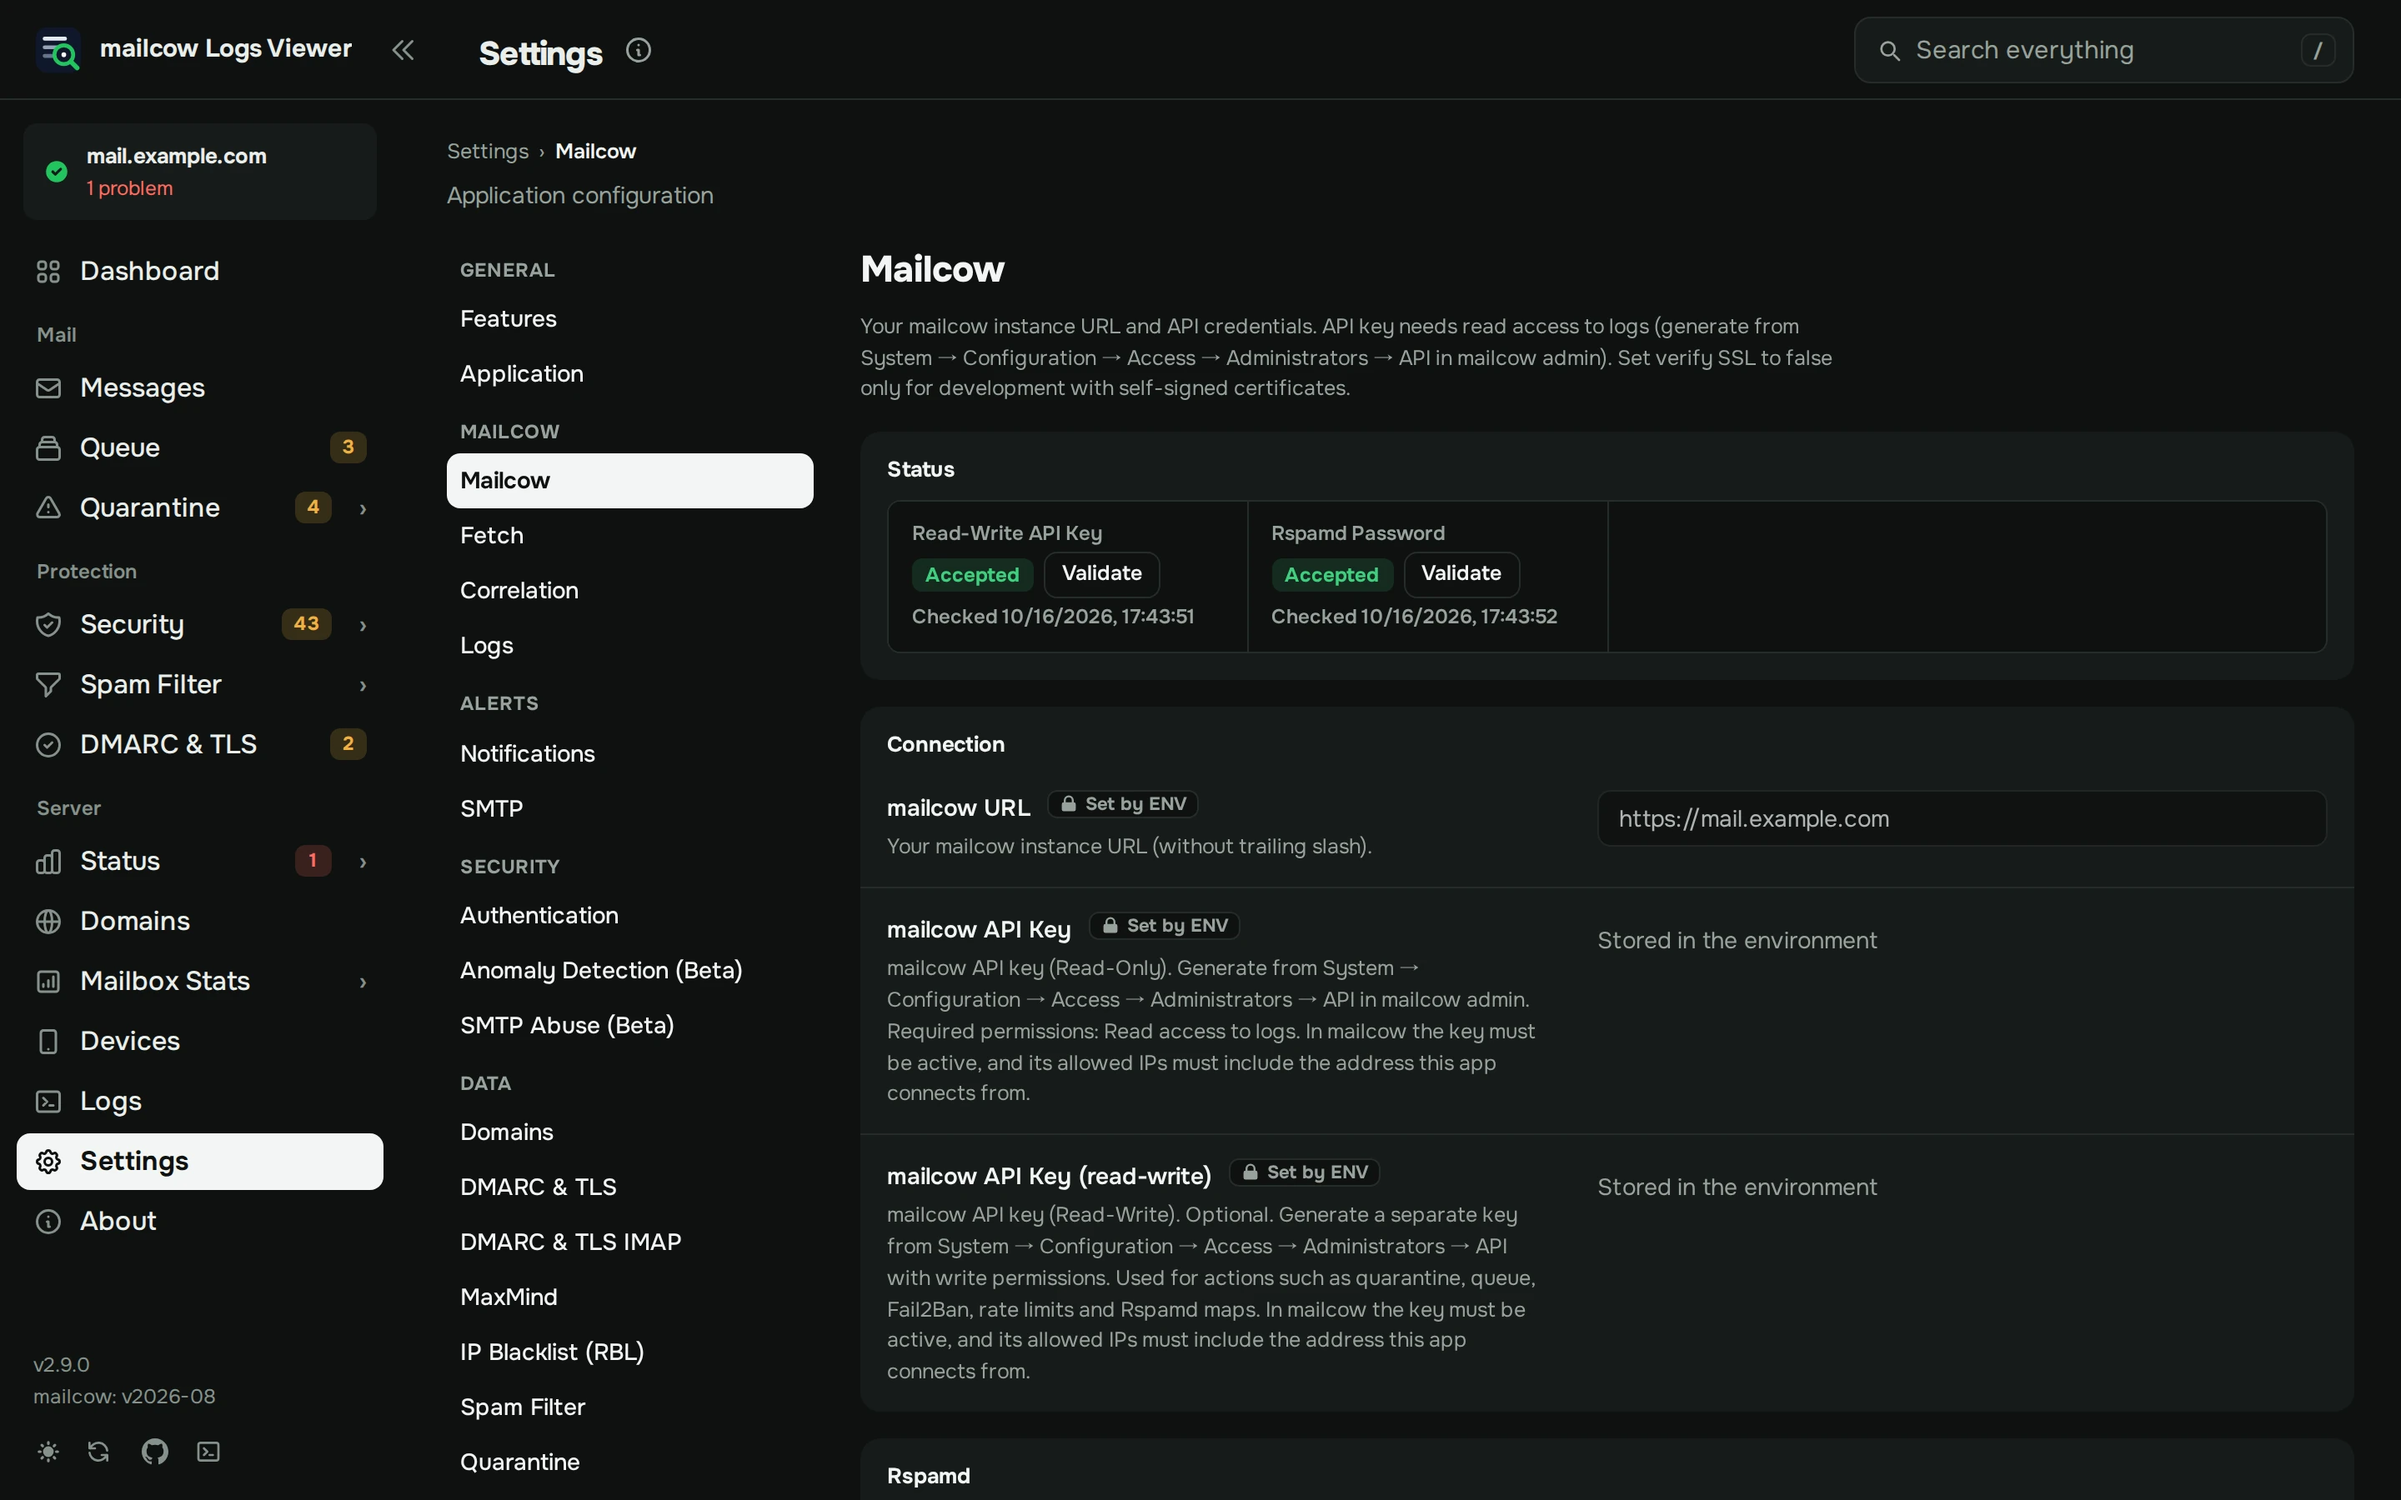
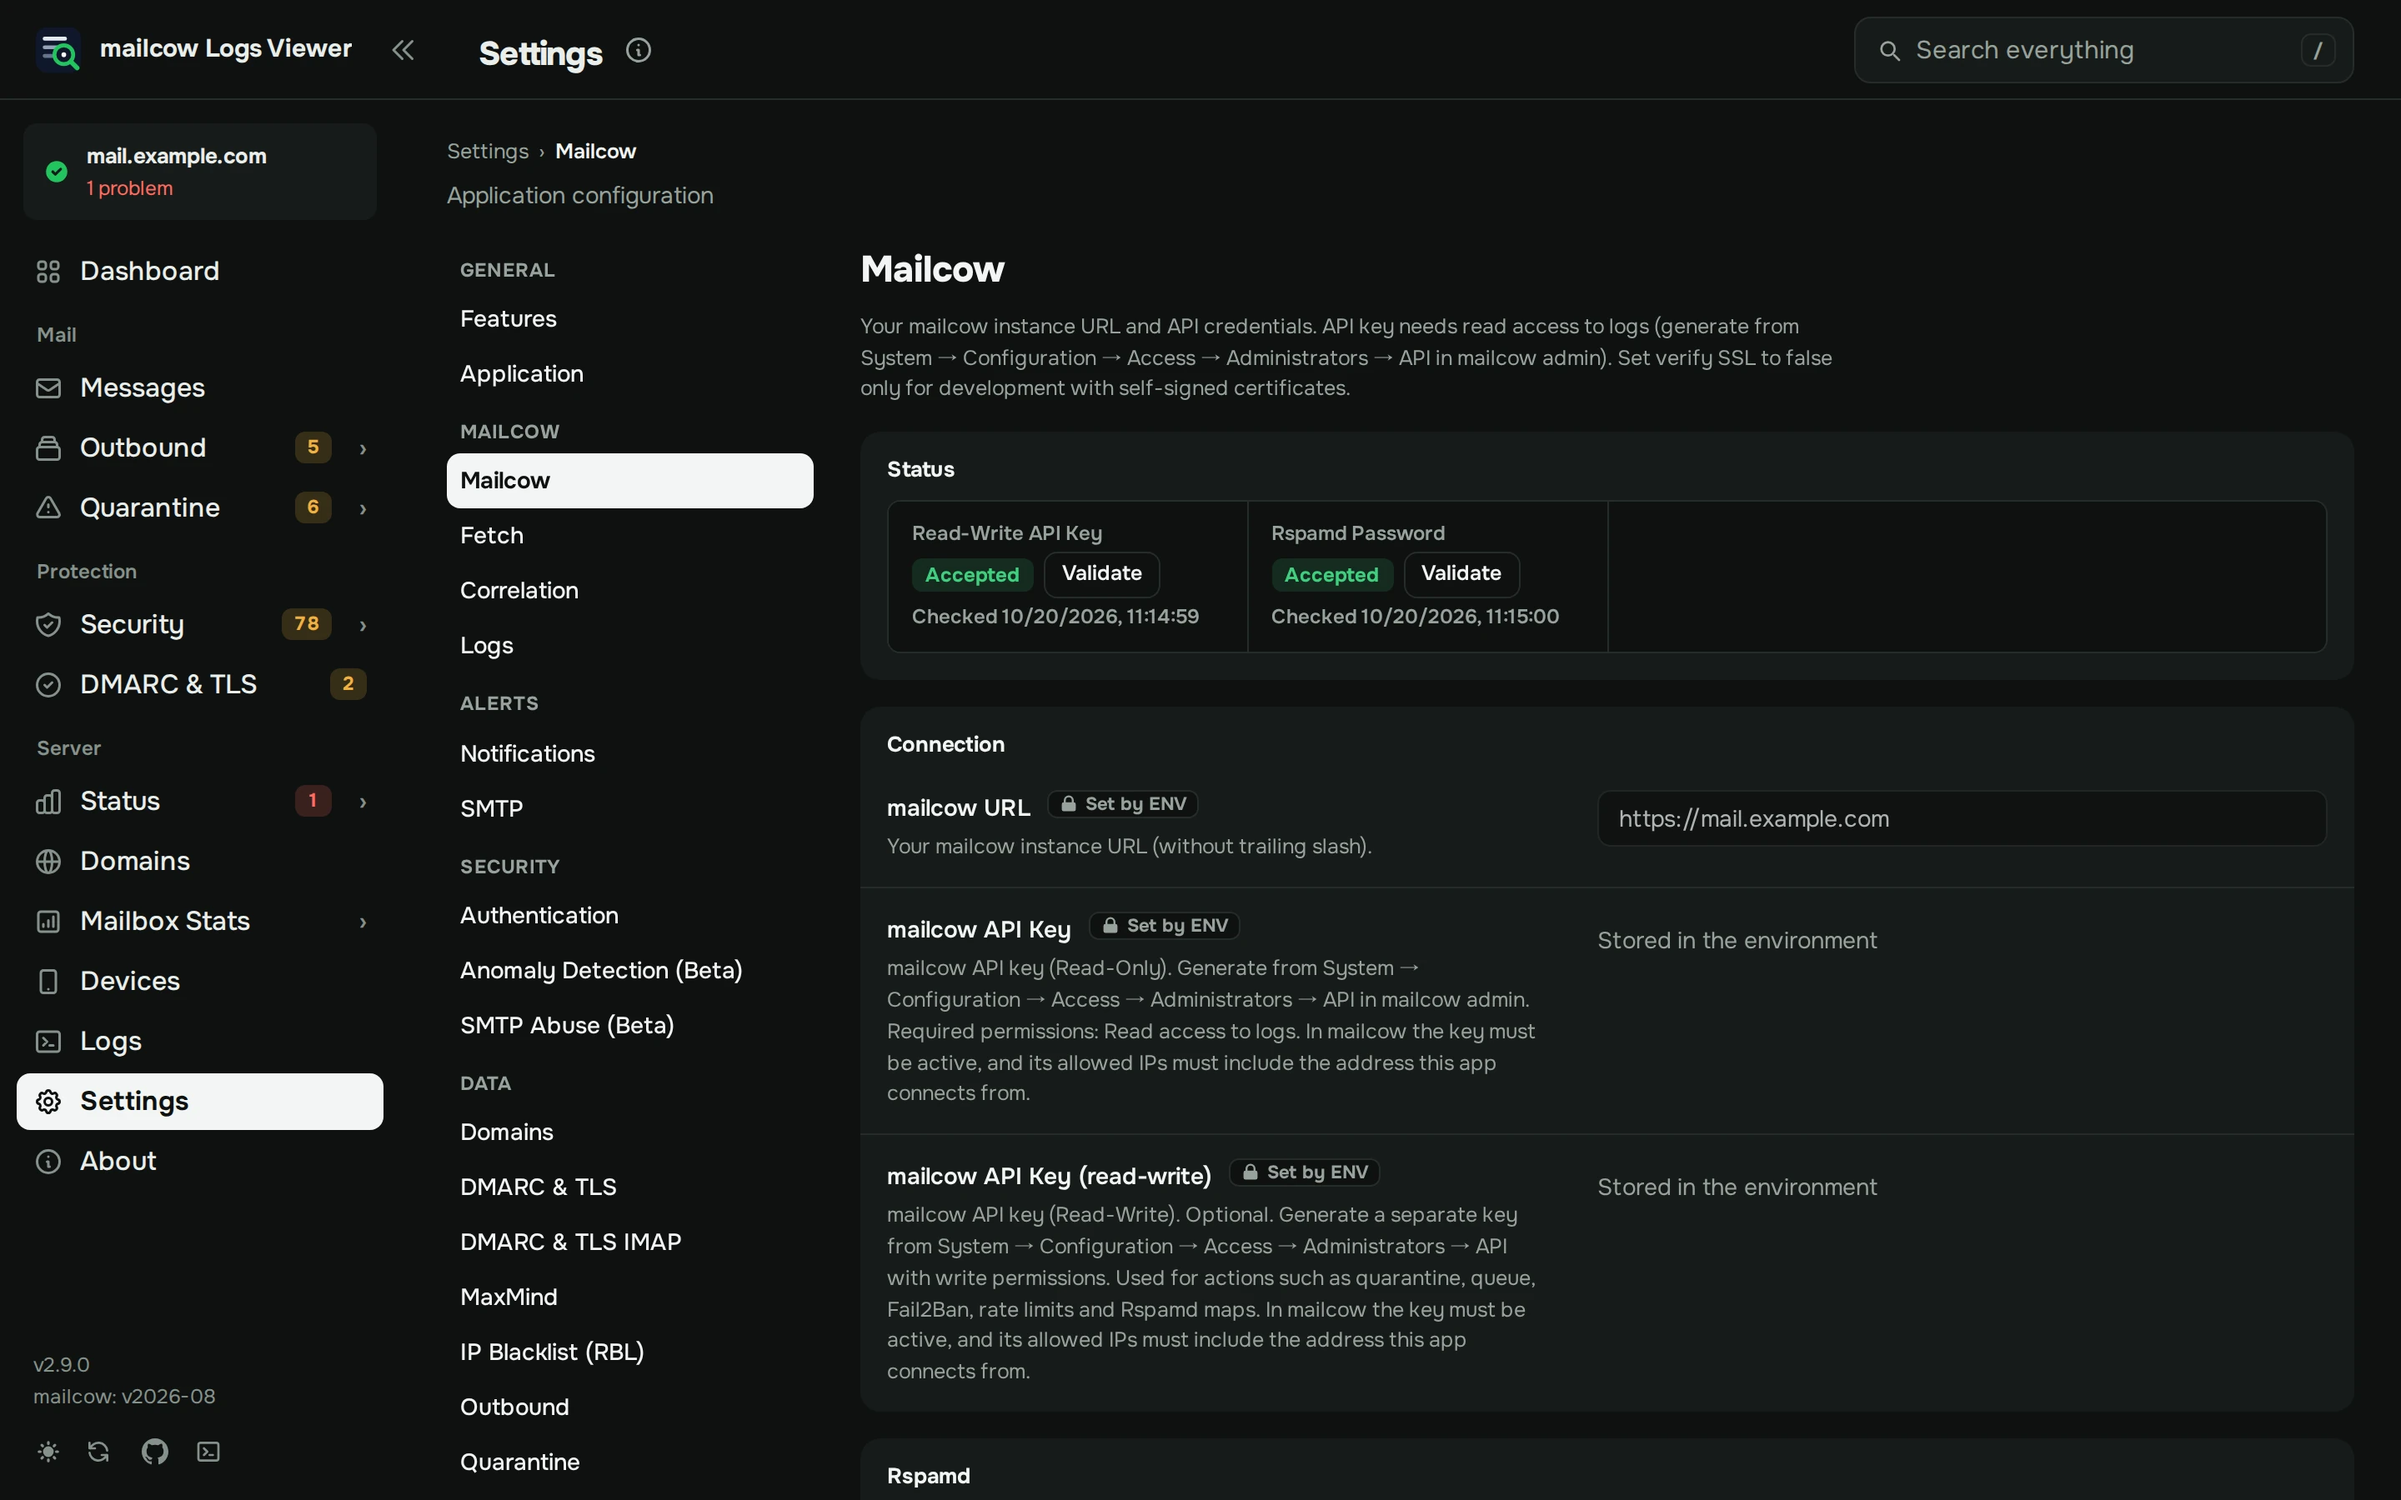
Say what Quarantine shows when only its maps are on, and show the new places in the help screenshots

diff --git a/frontend/app.js b/frontend/app.js
@@ -1816,6 +1816,10 @@ function switchTab(tab, params = {}) {
             if (!isFeatureDisabled('quarantine')) {
                 loadQuarantine();
                 initQuarantineRules();
+            } else {
+                // Only the maps are on: the subtitle speaks of them, not of held mail
+                const summary = document.getElementById('quarantine-summary');
+                if (summary) summary.textContent = 'The Rspamd maps that allow or block mail';
             }
             // The maps load when their tab shows
             if (quarantineTab === 'maps') loadRspamdMaps();

diff --git a/backend/tests/test_status_jobs_feature_off.py b/backend/tests/test_status_jobs_feature_off.py
@@ -72,7 +72,7 @@ def test_suppression_sync_off_says_why(jobs, monkeypatch):
     monkeypatch.setattr(settings._inner, 'rspamd_password', 'example-password')
     job = jobs()['sync_suppressions']
     assert job['enabled'] is False
-    assert 'Sync with Rspamd' in job['disabled_reason'] and job['settings_section'] == 'spam_filter'
+    assert 'Sync with Rspamd' in job['disabled_reason'] and job['settings_section'] == 'outbound'
 
 
 def test_suppression_sync_without_the_rspamd_password_is_off_and_says_why(jobs, monkeypatch):
